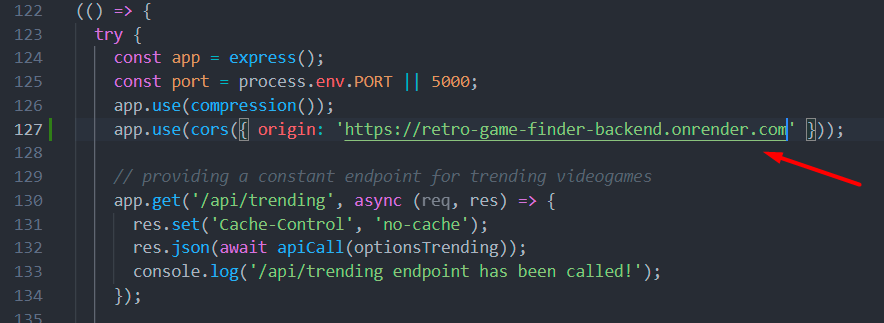
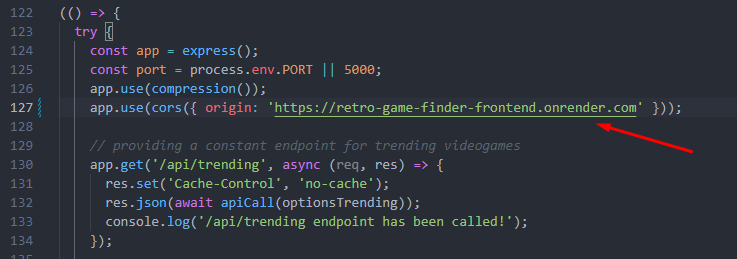
feat: enhance blog images on click and on custom pages (#179)

diff --git a/blog/heroku-to-render-dot-com/index.html b/blog/heroku-to-render-dot-com/index.html
@@ -2,7 +2,7 @@
 <html lang="en">
 
 <head>
-  <title>How to move React.Js+Node.Js fullstack application from free Heroku dyno to Render.com? - theDavidBarton.github.io</title>
+  <title>How to move React.Js+Node.Js full-stack application from free Heroku dyno to Render.com? - theDavidBarton.github.io</title>
   <link rel="stylesheet" href="/index.css" />
   <link rel="icon" type="image/x-icon" href="/assets/favicon.ico" />
   <link rel="preconnect" href="https://api.github.com/" />
@@ -10,7 +10,7 @@
   
   <meta charset="utf-8" />
   <meta name="description"
-    content="How to move React.Js+Node.Js fullstack application from free Heroku dyno to Render.com? As of 28th November 2022 as Heroku shuts down its Free Dynos, let's see how can we maintain free deployments for our hobby projects at an alternative cloud platform." />
+    content="How to move React.Js+Node.Js full-stack application from free Heroku dyno to Render.com? As of 28th November 2022 as Heroku shuts down its Free Dynos, let's see how can we maintain free deployments for our hobby projects at an alternative cloud platform." />
   <meta name="google" content="notranslate" />
   <meta name="robots" content="noimageindex" />
   <meta name="viewport" content="width=device-width, initial-scale=1" />
@@ -65,7 +65,7 @@
   <main class="bg-light">
   <script src="/blog/index.js"></script>
   <article id="article">
-    <div>August 28, 2022, <svg width="16" height="16" xmlns="http://www.w3.org/2000/svg"><image href="/assets/clock.svg" width="16" height="16"></image></svg> <span id="readTime">6 min read</span>, In: computer technology</div><div class="author-info">by David Barton</div><h1 id="how-to-move-reactjs--nodejs-full-stack-application-from-free-heroku-dyno-to-rendercom">How to move React.Js + Node.Js full-stack application from free Heroku dyno to Render.com?</h1>
+    <div>August 28, 2022, <svg width="16" height="16" xmlns="http://www.w3.org/2000/svg"><image href="/assets/clock.svg" width="16" height="16"></image></svg> <span id="readTime">5 min read</span>, In: computer technology</div><div class="author-info">by David Barton</div><h1 id="how-to-move-reactjs--nodejs-full-stack-application-from-free-heroku-dyno-to-rendercom">How to move React.Js + Node.Js full-stack application from free Heroku dyno to Render.com?</h1>
 <p>As of 28th November 2022 Heroku <a href="https://blog.heroku.com/next-chapter">shuts down its Free Dynos</a> and removes every deployment using it. It is bad news for everybody who will run into a tutorial that starts with &quot;Let&#39;s create a full-stack web app and deploy it on the fly to Heroku for free&quot;. So long tutorial writers.</p>
 <p>It has been indeed the best free cloud hosting for hobby projects even if the deployments on the so-called &quot;dynos&quot; idled after inactivity and took 30 seconds to wake up. My own React.Js Node.Js/Express.Js full-stack apps are also affected (see my old blog post about the <a href="/blog/idling-heroku">Heroku idling topic</a>) so I started to look for a new place where I can deploy small projects within a free plan and I choose <a href="https://www.render.com/">Render.com</a>.</p>
 <p><strong><a href="https://render.com/">Render</a></strong> is a cloud platform for Ruby, Node.js, Python, Rust, Go, and PHP-based applications. with free TLS certificates, global CDN, private networks and auto deploys from Git.<br>It provides a similar range of services as Heroku.</p>
@@ -141,7 +141,7 @@
 <p>For this purpose, I install <a href="https://www.npmjs.com/package/cors">cors</a> npm package.</p>
 <p><img src="/img/blog/heroku-to-render-dot-com-28.png" alt="">
 <img src="/img/blog/heroku-to-render-dot-com-29.png" alt=""></p>
-<p>In the Node backend, I add the URL of the frontend as Allow Access Control Origin (there is a typo on the screenshot, we need the &#39;frontend&#39; here for sure, not the &#39;backend&#39; :) )</p>
+<p>In the Node backend, I add the URL of the frontend as Allow Access Control Origin.</p>
 <pre><code class="language-js">app.use(cors({ origin: &#39;https://retro-game-finder-frontend.onrender.com&#39; }));</code></pre>
 <p><img src="/img/blog/heroku-to-render-dot-com-30.png" alt=""></p>
 <p>Once I pushed the fix on Github (<a href="https://github.com/theDavidBarton/retro-game-finder/commit/730cce725aa389aee89accefc4c7b1b1df10f1e0">https://github.com/theDavidBarton/retro-game-finder/commit/730cce725aa389aee89accefc4c7b1b1df10f1e0</a>) we need to wait a few seconds for Render to redeploy the new backend version which includes the correct response header so we have no CORS error:</p>

diff --git a/blog/link-checker/index.html b/blog/link-checker/index.html
@@ -101,7 +101,7 @@ const statusCode = response.status()</code></pre>
 <p>Using puppeteer as link checker is already an expensive choice - I don&#39;t recommend it for more than 1-200 links on a page - so I tried to reduce some network usage and speed up page load as much as possible. To avoid the strict rules puppeteer follows to consider a page loaded in <code>page.goto</code> I use a <code>Promise.race</code> between <code>goto</code> and <code>page.waitForResponse</code>. The latter will listen to the current link among the network requests (that will be the main document) and once it has a a status code (<code>&gt; 99</code> as the <a href="https://developer.mozilla.org/en-US/docs/Web/HTTP/Status">smallest status code</a> possible would be &quot;100&quot;) we can proceed and save it as the final status code.</p>
 <p>It is not the fastest solution out there but if you also need a solution purely in puppeteer you can get some inspiration from the above code.</p>
 <p>Happy coding!</p>
-<aside class="next-prev-grid"><a class="prev-article" href="/blog/ssr-testing">Previous post: <wbr>How to test the SSR version of a site?</a><a class="next-article" href="/blog/heroku-to-render-dot-com">Next post: <wbr>How to move React.Js+Node.Js fullstack application from free Heroku dyno to Render.com?</a></aside>
+<aside class="next-prev-grid"><a class="prev-article" href="/blog/ssr-testing">Previous post: <wbr>How to test the SSR version of a site?</a><a class="next-article" href="/blog/heroku-to-render-dot-com">Next post: <wbr>How to move React.Js+Node.Js full-stack application from free Heroku dyno to Render.com?</a></aside>
   </article>
 </main>
 <footer class="footer-blog">

diff --git a/blog/index.js b/blog/index.js
@@ -1,8 +1,8 @@
 'use strict'
 
-// code formatting by adding Prism.js
 document.addEventListener('DOMContentLoaded', () => {
   const pre = document.querySelector('pre')
+  // code formatting by adding Prism.js
   if (pre) {
     const prismStylesheet = document.createElement('link')
     prismStylesheet.rel = 'stylesheet'
@@ -17,5 +17,19 @@ document.addEventListener('DOMContentLoaded', () => {
       const pres = document.querySelectorAll('pre')
       pres.forEach(el => el.style.setProperty('margin', '1em 0', 'important'))
     }
+  }
+  const imgs = document.querySelectorAll('article img')
+  // make blog images clickable so they can see in original size
+  imgs.forEach(el => {
+    const parent = el.parentNode
+    const wrapper = document.createElement('a')
+    parent.replaceChild(wrapper, el)
+    wrapper.appendChild(el)
+    wrapper.classList.add('blog-img')
+    wrapper.href = el.src
+  })
+  // these articles require bigger images
+  if (window.location.href.match(/heroku-to-render-dot-com/)) {
+    imgs.forEach(el => el.classList.add('big-blog-img'))
   }
 })

diff --git a/blog/index.html b/blog/index.html
@@ -66,7 +66,7 @@
   <script src="/blog/index.js"></script>
   <article id="article">
     <h1>Blog</h1><ul>
-<li><a href="/blog/heroku-to-render-dot-com">How to move React.Js+Node.Js fullstack application from free Heroku dyno to Render.com?</a> <span class="date">August 28, 2022</span></li>
+<li><a href="/blog/heroku-to-render-dot-com">How to move React.Js+Node.Js full-stack application from free Heroku dyno to Render.com?</a> <span class="date">August 28, 2022</span></li>
 <li><a href="/blog/link-checker">Creating a link checker with puppeteer</a> <span class="date">July 3, 2022</span></li>
 <li><a href="/blog/ssr-testing">How to test the SSR version of a site?</a> <span class="date">October 24, 2021</span></li>
 <li><a href="/blog/e2e-different-browser-versions">Testing against multiple browser versions in 2021</a> <span class="date">April 10, 2021</span></li>

diff --git a/index.css b/index.css
@@ -684,6 +684,10 @@ pre {
   overflow: auto;
 }
 
+.big-blog-img {
+  display: block;
+}
+
 @media (min-width: 740px) {
   pre {
     background-color: #2d2d2d;
@@ -691,6 +695,10 @@ pre {
     padding: 1em !important;
     margin: 3em -8em !important;
     overflow: auto;
+  }
+  .big-blog-img {
+    max-width: 46.5rem !important;
+    margin-left: -6.5rem !important;
   }
 }
 
@@ -762,7 +770,7 @@ article > figure {
   }
 }
 
-article > * > img {
+article img {
   display: block;
   max-width: 100%;
   height: auto;
@@ -771,7 +779,7 @@ article > * > img {
   border-style: dotted;
 }
 
-article > * > img + em,
+article > * > .blog-img + em,
 article > * > table + em {
   display: grid;
   padding: 0.5rem;

diff --git a/blog/heroku-to-render-dot-com/heroku-to-render-dot-com.MD b/blog/heroku-to-render-dot-com/heroku-to-render-dot-com.MD
@@ -147,7 +147,7 @@ For this purpose, I install [cors](https://www.npmjs.com/package/cors) npm packa
 ![](/img/blog/heroku-to-render-dot-com-28.png)
 ![](/img/blog/heroku-to-render-dot-com-29.png)
 
-In the Node backend, I add the URL of the frontend as Allow Access Control Origin (there is a typo on the screenshot, we need the 'frontend' here for sure, not the 'backend' :) )
+In the Node backend, I add the URL of the frontend as Allow Access Control Origin.
 
 ```js
 app.use(cors({ origin: 'https://retro-game-finder-frontend.onrender.com' }));
